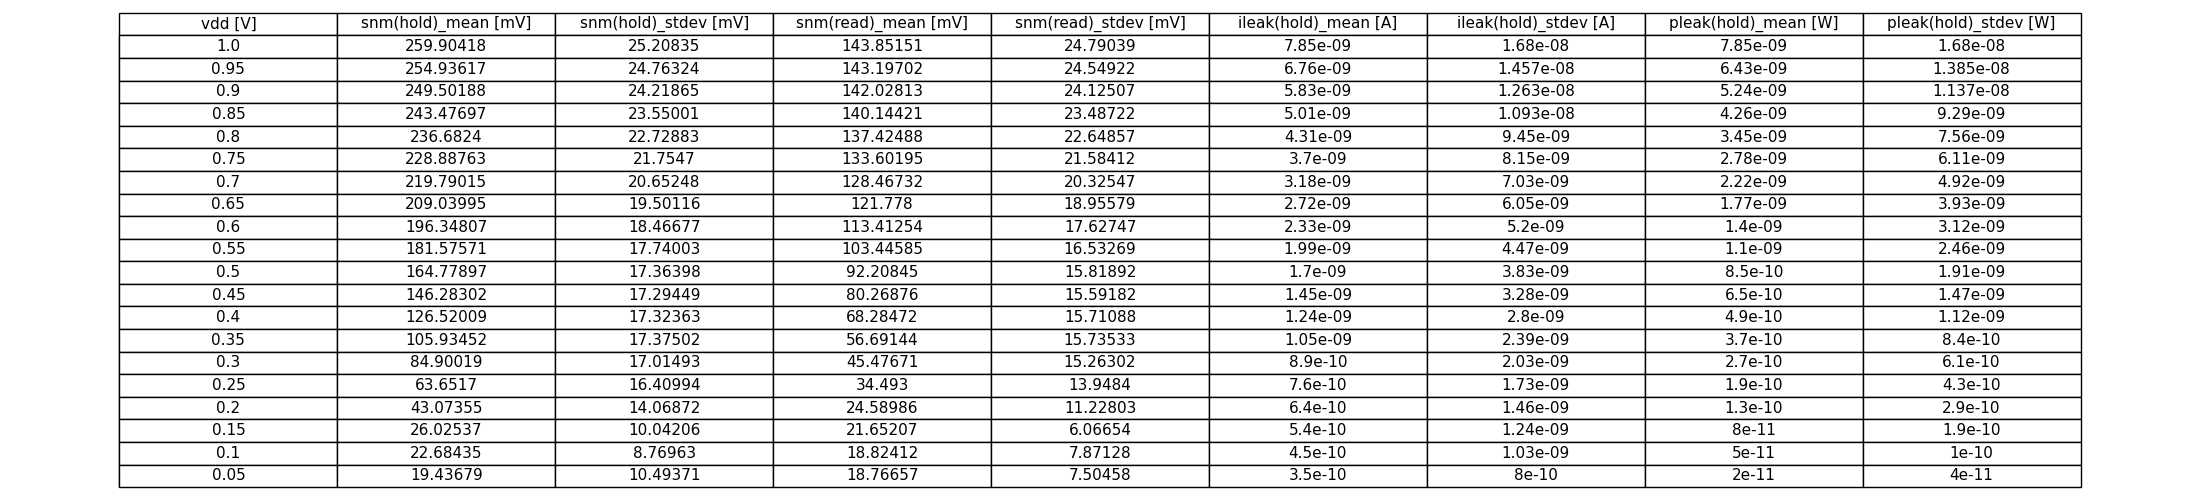
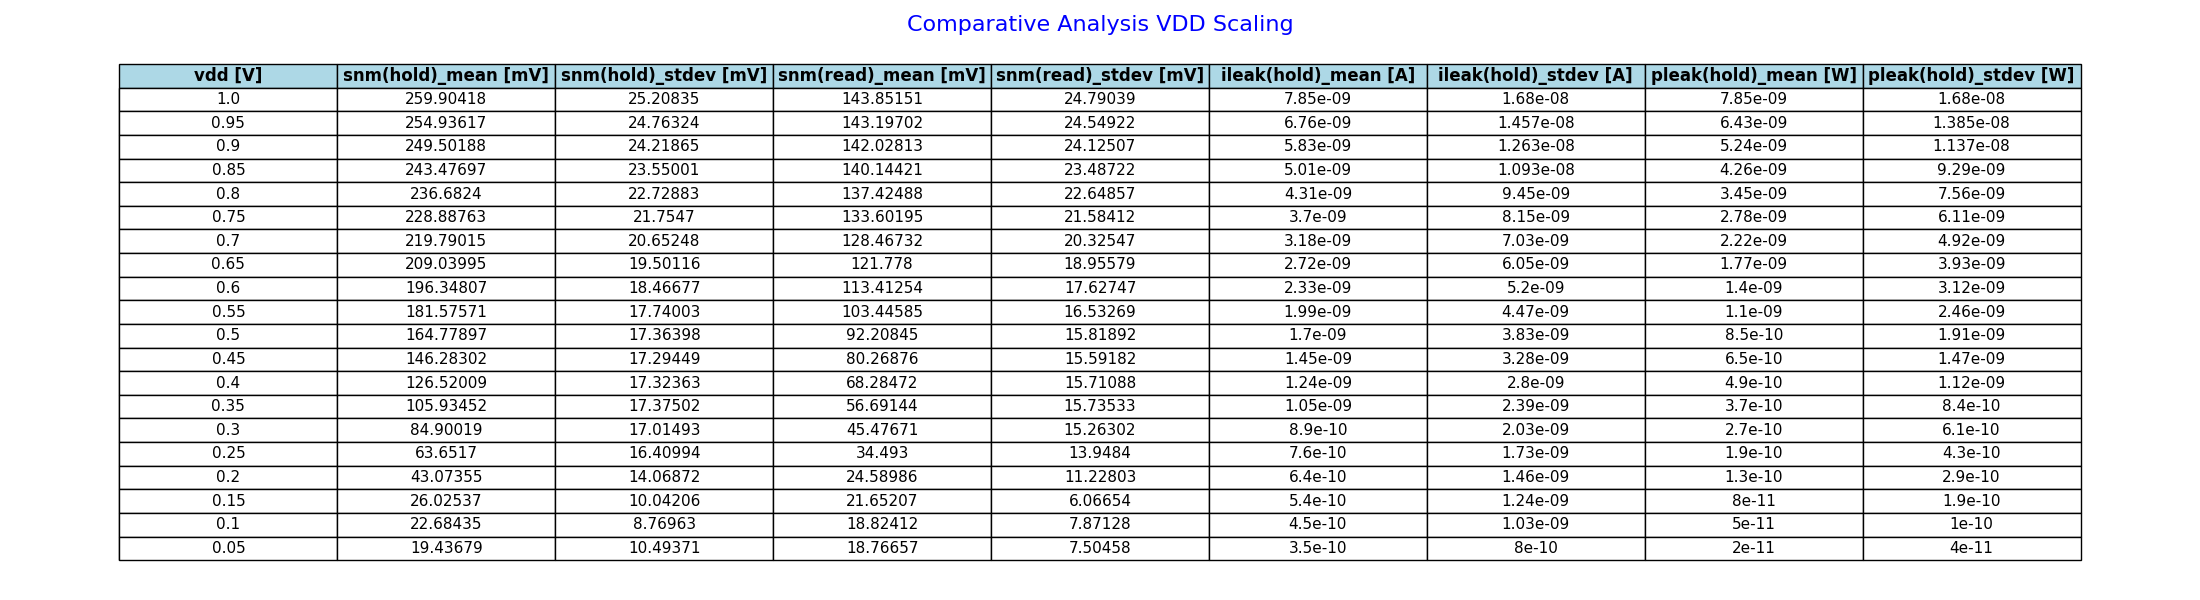
aggiunti ulteriori table

diff --git a/python/sram-analysis/snm_ileak_vdd_scaling_comparative_analysis.py b/python/sram-analysis/snm_ileak_vdd_scaling_comparative_analysis.py
@@ -1,8 +1,8 @@
 from utils.dir import get_values_from_dir, get_mean_from_file, get_stdev_from_file
 from utils.path import images
-from models.ops import save_image
-import pandas as pd
+from models.ops import save_image, table_creation
 import matplotlib.pyplot as plt
+import pandas as pd
 from pandas.plotting import table
 import os
 import numpy as np
@@ -163,7 +163,7 @@ def snm_ileak_vdd_scaling_comparative_analysis():
 
     p_leak_standard_hold_mean = [ileakmean * vdd for ileakmean, vdd in zip(i_leak_standard_hold_mean, vdd_scaled)]
     p_leak_standard_hold_stdev = [ileakstdev * vdd for ileakstdev, vdd in zip(i_leak_standard_hold_stdev, vdd_scaled)]
-    data = {
+    data_table_comparative_analysis_vdd_scaling = {
         'vdd [V]': vdd_scaled,
         'snm(hold)_mean [mV]': [round(val, 5) for val in snm_gaussian_vth_hold_mean],
         'snm(hold)_stdev [mV]': [round(val, 5) for val in snm_gaussian_vth_hold_stdev],
@@ -174,28 +174,12 @@ def snm_ileak_vdd_scaling_comparative_analysis():
         'pleak(hold)_mean [W]': [round(val, 11) for val in p_leak_standard_hold_mean],
         'pleak(hold)_stdev [W]': [round(val, 11) for val in p_leak_standard_hold_stdev]
     }
-    df = pd.DataFrame(data)
-    blankIndex = [''] * len(df)
-    df.index = blankIndex
-
-    fig_table_comparative, ax_table_comparative = plt.subplots(figsize=(22, 5))
-    ax_table_comparative.set_frame_on(False)
-    tab = table(
-        ax_table_comparative,
-        df,
-        loc='center',
-        colWidths=[0.14] * len(df.columns),
-        cellLoc='center'
+    table_creation(
+        data_table=data_table_comparative_analysis_vdd_scaling,
+        title_plot="Comparative Analysis VDD Scaling",
+        title_image_saving="table_comparative_analysis_vdd_scaling.png",
+        figsize=[22, 6]
     )
-    tab.auto_set_font_size(False)
-    tab.set_fontsize(11)
-    tab.scale(1.2, 1.2)
-
-    ax_table_comparative.axis('off')
-
-    fig_table_comparative.tight_layout()
-    save_image(image_path=os.path.join(images, "table_comparative_analysis_vdd_scaling.png"), plt=plt)
-    plt.show()
 
 
 if __name__ == "__main__":

diff --git a/python/sram-analysis/models/ops.py b/python/sram-analysis/models/ops.py
@@ -23,10 +23,14 @@ from properties import (
     l_nmos_q_standard_ileak, w_nmos_q_standard_ileak, l_pmos_q_neg_standard_ileak,
     w_pmos_q_neg_standard_ileak, l_nmos_q_neg_standard_ileak, w_nmos_q_neg_standard_ileak
 )
-from utils.path import data
+from utils.path import data, images
 import re
 from PyLTSpice import SimRunner
 import numpy as np
+import pandas as pd
+from pandas.plotting import table
+from matplotlib import pyplot as plt
+import os
 
 
 def load_schematic(schematic_image_path: str) -> None:
@@ -89,6 +93,43 @@ def save_image(image_path: str, plt: pyplot) -> None:
 
     # Salva l'immagine utilizzando l'oggetto pyplot
     plt.savefig(image_path, format='png')
+
+
+def table_creation(
+        data_table,
+        title_plot,
+        title_image_saving,
+        figsize
+):
+    df = pd.DataFrame(data_table)
+    blankIndex = [''] * len(df)
+    df.index = blankIndex
+
+    fig_table, ax_table = plt.subplots(figsize=(figsize[0], figsize[1]))
+    ax_table.set_frame_on(False)
+    ax_table.set_title(title_plot, fontsize=16, color='blue')
+    tab = table(
+        ax_table,
+        df,
+        loc='center',
+        colWidths=[0.14] * len(df.columns),
+        cellLoc='center'
+    )
+    tab.auto_set_font_size(False)
+    tab.set_fontsize(11)
+
+    for i, key in enumerate(df.keys()):
+        cell = tab[0, i]
+        cell.set_fontsize(12)
+        cell.set_text_props(weight='bold', color='black')
+        cell.set_facecolor('lightblue')
+
+    tab.scale(1.2, 1.2)
+    ax_table.axis('off')
+
+    fig_table.tight_layout()
+    save_image(image_path=os.path.join(images, title_image_saving), plt=plt)
+    plt.show()
 
 
 def get_data(pattern: str, content: str) -> list[float]:

diff --git a/python/sram-analysis/graphical_seevinck_comparative_analysis.py b/python/sram-analysis/graphical_seevinck_comparative_analysis.py
@@ -2,7 +2,7 @@ from matplotlib import pyplot as plt
 import os
 from utils.path import images, data
 from utils.dir import get_values_from_file
-from models.ops import save_image
+from models.ops import save_image, table_creation
 
 
 def graphical_seevinck_comparative_analysis():
@@ -46,6 +46,32 @@ def graphical_seevinck_comparative_analysis():
     plt.grid()
     save_image(image_path=os.path.join(images, "difference_snm_w_ax.png"), plt=plt)
     plt.show()
+
+    data_table = {
+        'w_ax [m]': w_ax_hold,
+        'snm(hold)_standard [mV]': snm_hold_standard,
+        'snm(read)_standard [mV]': snm_read_standard,
+        'snm(hold)_seevinck [mV]': snm_hold_seevinck,
+        'snm(read)_seevinck [mV]': snm_read_seevinck
+    }
+    table_creation(
+        data_table=data_table,
+        title_plot="Comparative Analysis Graphical-Seevinck",
+        title_image_saving="table_comparative_analysis_graphical_seevinck.png",
+        figsize=[16, 4]
+    )
+
+    data_table = {
+        'w_ax [m]': w_ax_hold,
+        'diff_snm_hold [%]': percentage_difference_snm_hold,
+        'diff_snm_read [%]': percentage_difference_snm_read
+    }
+    table_creation(
+        data_table=data_table,
+        title_plot="Comparative Analysis %Difference Graphical-Seevinck",
+        title_image_saving="table_comparative_analysis_difference_snm_w_ax_graphical_seevinck.png",
+        figsize=[12, 4]
+    )
 
 
 if __name__ == "__main__":

diff --git a/python/sram-analysis/snm_hold_seevinck_analysis.py b/python/sram-analysis/snm_hold_seevinck_analysis.py
@@ -5,7 +5,8 @@ from properties import rit_models, dc_vsweep_seevinck, snm_max, snm_min, w_ax_st
 from utils.path import ltspice, schematics, images, data
 from utils.patterns import w_ax_seevinck_pattern, snm_max_seevinck_pattern, snm_min_seevinck_pattern
 from models.snm import graphical_processing, rotate_points, seevinck_processing, RequestPlot
-from models.ops import save_image, get_data, __init_model__, CircuitType, OperationType, RequestPlotSchematic
+from models.ops import (save_image, get_data, __init_model__, CircuitType, OperationType, RequestPlotSchematic,
+                        table_creation)
 from matplotlib import pyplot as plt
 import os
 from properties import w_ax_pos
@@ -196,6 +197,18 @@ def seevinck_hold_snm_analysis():
     with open(snm_hold_seevinck_file_path, 'w') as file:
         for val in snm_seevinck_hold:
             file.write(f'{val}\n')
+
+    data_table = {
+        'w_ax [m]': w_ax_seevinck_hold,
+        'snm(hold)_max_seevinck [mV]': snm_max_seevinck_hold,
+        'snm(hold)_min_seevinck [mV]': snm_min_seevinck_hold
+    }
+    table_creation(
+        data_table=data_table,
+        title_plot="Comparative Analysis W_AX-SNM(HOLD)_MAX-SNM(HOLD)_MIN Seevinck Method",
+        title_image_saving="table_comparative_wax_snm_max_min_hold_seevinck.png",
+        figsize=[18, 4]
+    )
 
 
 if __name__ == "__main__":

diff --git a/python/sram-analysis/snm_read_seevinck_analysis.py b/python/sram-analysis/snm_read_seevinck_analysis.py
@@ -5,7 +5,8 @@ from properties import rit_models, dc_vsweep_seevinck, snm_max, snm_min, w_ax_st
 from utils.path import ltspice, schematics, images, data
 from utils.patterns import w_ax_seevinck_pattern, snm_max_seevinck_pattern, snm_min_seevinck_pattern
 from models.snm import graphical_processing, rotate_points, seevinck_processing, RequestPlot
-from models.ops import save_image, get_data, __init_model__, CircuitType, OperationType, RequestPlotSchematic
+from models.ops import (save_image, get_data, __init_model__, CircuitType, OperationType, RequestPlotSchematic,
+                        table_creation)
 from matplotlib import pyplot as plt
 import os
 from properties import w_ax_pos
@@ -195,6 +196,18 @@ def seevinck_read_snm_analysis():
     with open(snm_read_seevinck_file_path, 'w') as file:
         for val in snm_seevinck_read:
             file.write(f'{val}\n')
+
+    data_table = {
+        'w_ax [m]': w_ax_seevinck_read,
+        'snm(read)_max_seevinck [mV]': snm_max_seevinck_read,
+        'snm(read)_min_seevinck [mV]': snm_min_seevinck_read
+    }
+    table_creation(
+        data_table=data_table,
+        title_plot="Comparative Analysis W_AX-SNM(READ)_MAX-SNM(READ)_MIN Seevinck Method",
+        title_image_saving="table_comparative_wax_snm_max_min_read_seevinck.png",
+        figsize=[18, 4]
+    )
 
 
 if __name__ == "__main__":

diff --git a/python/sram-analysis/snm_hold_standard_analysis.py b/python/sram-analysis/snm_hold_standard_analysis.py
@@ -5,7 +5,8 @@ from properties import rit_models, dc_vsweep_standard, w_ax_step_param_standard,
 from utils.path import ltspice, schematics, images, data
 from utils.patterns import w_ax_standard_pattern
 from models.snm import graphical_processing, RequestPlot
-from models.ops import save_image, get_data, __init_model__, CircuitType, OperationType, RequestPlotSchematic
+from models.ops import (save_image, get_data, __init_model__, CircuitType, OperationType, RequestPlotSchematic,
+                        table_creation)
 from matplotlib import pyplot as plt
 import os
 from properties import w_ax_pos
@@ -129,6 +130,17 @@ def standard_hold_snm_analysis():
     with open(snm_hold_standard_file_path, 'w') as file:
         for val in snm_standard_hold:
             file.write(f'{val}\n')
+
+    data_table = {
+        'w_ax [m]': w_ax_standard_hold,
+        'snm(hold)_standard [mV]': snm_standard_hold
+    }
+    table_creation(
+        data_table=data_table,
+        title_plot="Comparative Analysis W_AX-SNM(HOLD) Graphical Method",
+        title_image_saving="table_comparative_wax_snm_hold_standard.png",
+        figsize=[16, 4]
+    )
 
 
 if __name__ == "__main__":

diff --git a/python/sram-analysis/snm_read_standard_analysis.py b/python/sram-analysis/snm_read_standard_analysis.py
@@ -5,7 +5,8 @@ from properties import rit_models, dc_vsweep_standard, w_ax_step_param_standard,
 from utils.path import ltspice, schematics, images, data
 from utils.patterns import w_ax_standard_pattern
 from models.snm import graphical_processing, RequestPlot
-from models.ops import save_image, get_data, __init_model__, CircuitType, OperationType, RequestPlotSchematic
+from models.ops import (save_image, get_data, __init_model__, CircuitType, OperationType, RequestPlotSchematic,
+                        table_creation)
 from matplotlib import pyplot as plt
 import os
 from properties import w_ax_pos
@@ -129,6 +130,17 @@ def standard_read_snm_analysis():
     with open(snm_read_standard_file_path, 'w') as file:
         for val in snm_standard_read:
             file.write(f'{val}\n')
+
+    data_table = {
+        'w_ax [m]': w_ax_standard_read,
+        'snm(read)_standard [mV]': snm_standard_read
+    }
+    table_creation(
+        data_table=data_table,
+        title_plot="Comparative Analysis W_AX-SNM(READ) Graphical Method",
+        title_image_saving="table_comparative_wax_snm_read_standard.png",
+        figsize=[16, 4]
+    )
 
 
 if __name__ == "__main__":
